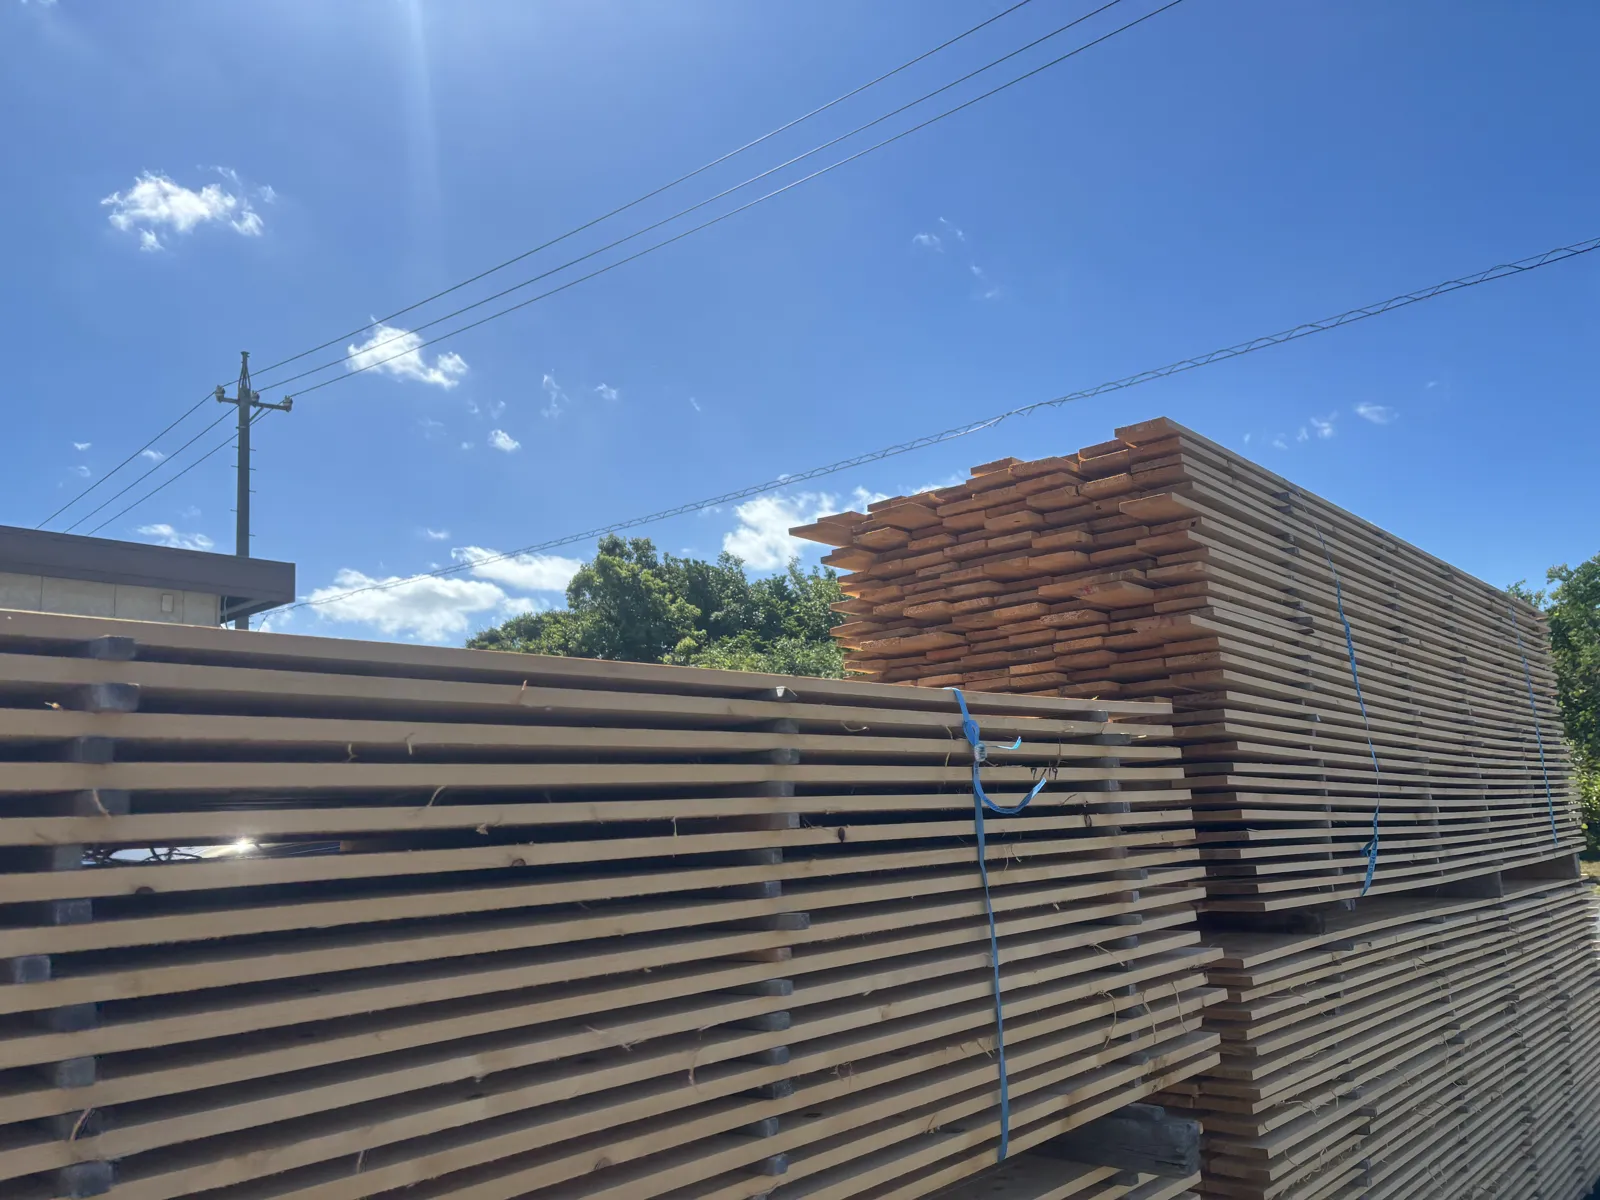
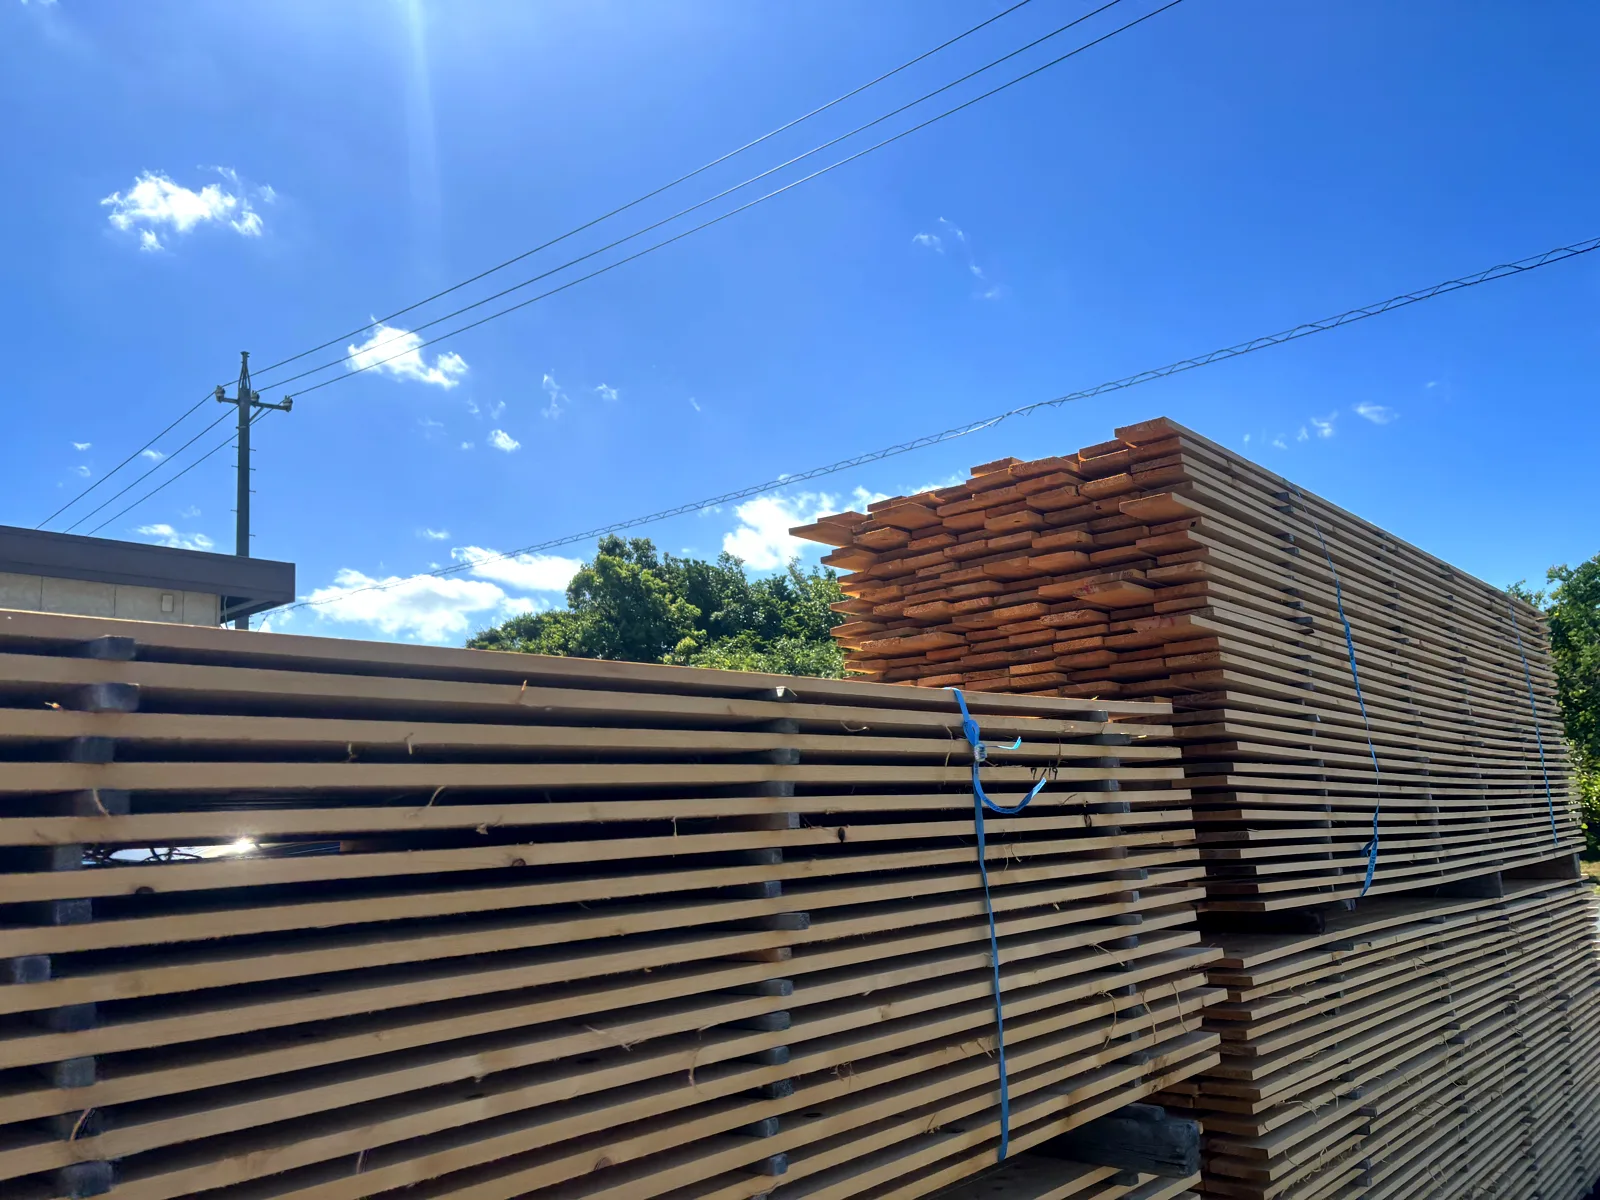
LP: 断面キャプション上部配置・三拍子セクション・色彩調整・CTA刷新
- 断面: キャプションを写真上部の重なり位置へ（板と被らない）＋中央寄せがアニメのtransformで崩れるバグ修正
- 会社セクション→「数字にできる実績と、数字にできない心と。」に刷新
  実績数字(創業1968/★4.97レビュー600件/年間2万束/国産100%)＋三拍子(技=親子三代/新=2026最新モルダー+AI活用/心=顔を思い浮かべて作る)
- 工程04モルダー: 2026年最新機への入替を差別化として明記
- 使用中8枚をHEIC原本から再現像(ホワイトバランス/コントラスト/彩度の統一グレーディング)
- CTA: サンプル請求カード追加で3分岐に・電話行は削除

diff --git a/lp/index.html b/lp/index.html
@@ -75,11 +75,11 @@ img{max-width:100%;display:block}
 
 /* ---------- 断面（フルブリード） ---------- */
 .danmen{position:relative;padding:0}
-.danmen img{width:100%;height:clamp(380px,62vh,600px);object-fit:cover}
+.danmen img{width:100%;height:clamp(420px,66vh,640px);object-fit:cover}
 .danmen .cap{
-  position:absolute;left:50%;bottom:clamp(28px,6vh,60px);transform:translateX(-50%);
-  background:rgba(250,248,244,.93);padding:26px clamp(24px,5vw,48px);max-width:640px;width:calc(100% - 48px);
-  text-align:center;box-shadow:0 12px 40px rgba(0,0,0,.22);
+  position:absolute;top:clamp(26px,6vh,58px);left:24px;right:24px;margin:0 auto;max-width:620px;
+  background:rgba(250,248,244,.92);padding:24px clamp(22px,4vw,44px) 22px;
+  text-align:center;box-shadow:0 12px 40px rgba(0,0,0,.18);
 }
 .danmen .cap h3{font-size:clamp(17px,2.4vw,22px);font-weight:600;letter-spacing:.14em;margin-bottom:10px}
 .danmen .cap p{font-size:13.8px;color:var(--ink-soft);letter-spacing:.06em;line-height:2}
@@ -106,8 +106,21 @@ img{max-width:100%;display:block}
 .company .facts{display:flex;justify-content:center;gap:clamp(30px,7vw,90px);margin-top:56px;flex-wrap:wrap}
 .company .fact .v{font-size:clamp(30px,4.6vw,44px);font-weight:600;color:var(--accent-deep);letter-spacing:.04em}
 .company .fact .v small{font-size:.45em;margin-left:2px}
+.company .fact .v .star{color:#c9a24b;font-size:.55em;vertical-align:.25em;margin-right:6px;letter-spacing:.06em}
 .company .fact .k{margin-top:8px;font-size:12.5px;color:var(--ink-faint);letter-spacing:.22em}
 .company .msg{max-width:680px;margin:64px auto 0;font-size:15px;color:var(--ink-soft);letter-spacing:.08em;line-height:2.5;text-align:left}
+
+/* ---------- 三拍子 ---------- */
+.pillars{display:grid;grid-template-columns:repeat(3,1fr);gap:20px;max-width:940px;margin:72px auto 0}
+.pillar{background:#fff;border:1px solid var(--line);padding:44px 30px 40px;text-align:center}
+.pillar .kanji{
+  display:inline-block;width:72px;height:72px;line-height:72px;border-radius:50%;
+  border:1px solid var(--accent);color:var(--accent-deep);
+  font-size:30px;font-weight:600;margin-bottom:22px;
+}
+.pillar h3{font-size:16.5px;font-weight:600;letter-spacing:.14em;margin-bottom:16px;line-height:1.8}
+.pillar p{font-size:13.6px;color:var(--ink-soft);letter-spacing:.05em;line-height:2.15;text-align:left}
+@media(max-width:860px){.pillars{grid-template-columns:1fr}}
 
 /* ---------- CTA ---------- */
 .cta{background:#241d16;color:#f5efe6;padding:100px 0 90px;text-align:center}
@@ -224,8 +237,8 @@ footer a{color:rgba(255,255,255,.8)}
       <div class="txt">
         <span class="stage sans">MOLDING</span>
         <h3>0.1ミリを合わせる機械加工。</h3>
-        <p>四面を一度に削り出すモルダーで、厚みと幅を整え、実（さね）を刻みます。刃物の状態と送りの調整で、仕上がりは大きく変わります。</p>
-        <p>刃物の管理は当社が最も神経を使う仕事のひとつ。切れる刃で削った面は、塗装がなくても光ります。</p>
+        <p>四面を一度に削り出すモルダーで、厚みと幅を整え、実（さね）を刻みます。当社はこの心臓部を、2026年に最新機へ入れ替えました。</p>
+        <p>機械が古いと送りにムラが出て、寸法の狂いや面の波打ちの原因になります。最新のモルダーと、研ぎ澄ました刃物。この組み合わせが、塗装がなくても光る面を作ります。</p>
       </div>
     </div>
 
@@ -328,15 +341,35 @@ footer a{color:rgba(255,255,255,.8)}
   <div class="wrap">
     <div class="sec-head">
       <span class="en sans">ABOUT US</span>
-      <h2>桧の専門店であること。</h2>
+      <h2>数字にできる実績と、<br>数字にできない心と。</h2>
     </div>
     <div class="facts">
       <div class="fact"><div class="v">1968<small>年</small></div><div class="k sans">創業（昭和43年）</div></div>
-      <div class="fact"><div class="v">桧<small>専門</small></div><div class="k sans">扱う木を絞る</div></div>
-      <div class="fact"><div class="v">一貫<small></small></div><div class="k sans">乾燥から出荷まで自社</div></div>
+      <div class="fact"><div class="v"><span class="star">★</span>4.97</div><div class="k sans">レビュー600件以上</div></div>
+      <div class="fact"><div class="v">20,000<small>束</small></div><div class="k sans">年間販売実績</div></div>
+      <div class="fact"><div class="v">100<small>%</small></div><div class="k sans">国産無垢桧</div></div>
     </div>
+
+    <div class="pillars">
+      <div class="pillar">
+        <span class="kanji">技</span>
+        <h3>親子三代、受け継いできた技術。</h3>
+        <p>昭和43年の創業から、親から子へ、そのまた子へ。乾かし方、削り方、節の見極め ── 桧一筋の技術を、三代かけて磨いてきました。</p>
+      </div>
+      <div class="pillar">
+        <span class="kanji">新</span>
+        <h3>新しくできることは、新しく。</h3>
+        <p>加工の心臓部・モルダーは2026年に最新機へ更新。受注や在庫管理は最新のAIで自動化。人の手と目を、事務ではなく木に使うためです。</p>
+      </div>
+      <div class="pillar">
+        <span class="kanji">心</span>
+        <h3>この床の先の、顔を思う。</h3>
+        <p>この一枚の上を、素足の子どもが走るかもしれない。お客様の顔を思い浮かべながら仕上げる ── 最後はそこに尽きます。</p>
+      </div>
+    </div>
+
     <p class="msg">
-      いろいろな木を少しずつではなく、桧だけを五十八年。扱う木を一つに絞ってきたから、乾かし方も、削り方も、節の見極めも、桧のことなら体で覚えています。それが林材木店の商いです。
+      古い技術と、新しい道具と、変わらない心。三つ揃って、林材木店の桧フローリングです。
     </p>
   </div>
 </section>
@@ -346,11 +379,16 @@ footer a{color:rgba(255,255,255,.8)}
   <div class="wrap">
     <h2>この床は、市場でお求めいただけます。</h2>
     <p class="lead sans">弊社の桧フローリングは、全国の木材市場・お取扱店を通じて流通しています。</p>
-    <div class="paths two sans">
+    <div class="paths sans">
       <a class="path" href="../markets.html">
         <span class="who">ご購入をお考えの方</span>
         <span class="act">お近くの市場・取扱店へ</span>
         <span class="desc">お取引のある木材市場・材木店で「林材木店の桧」とお申し付けください。取扱店のご案内もいたします。</span>
+      </a>
+      <a class="path" href="../contact.html">
+        <span class="who">まず実物を見たい方</span>
+        <span class="act">サンプルを手に取る</span>
+        <span class="desc">等級の違いも、超仕上げの艶も、手に取るのがいちばん早い。実物サンプルをお送りします。</span>
       </a>
       <a class="path" href="../contact.html">
         <span class="who">商品について気になることが</span>
@@ -358,7 +396,7 @@ footer a{color:rgba(255,255,255,.8)}
         <span class="desc">等級の選び方、寸法、施工のこと。商品に関するご質問は、作った私たちが直接お答えします。</span>
       </a>
     </div>
-    <p class="tel sans">お電話でも承ります　<a href="tel:0538582395">0538-58-2395</a><br>株式会社林材木店（静岡県磐田市）</p>
+    <p class="tel sans">株式会社林材木店（静岡県磐田市）</p>
   </div>
 </section>
 
@@ -371,12 +409,13 @@ footer a{color:rgba(255,255,255,.8)}
   document.documentElement.classList.add('js');
 
   // ふわっと表示の対象を付与
-  document.querySelectorAll('.step .ph, .danmen .cap, .living-grid figure, .company .fact, .company .msg, .path').forEach(function(el){ el.classList.add('rv-ph'); });
+  document.querySelectorAll('.step .ph, .danmen .cap, .living-grid figure, .company .fact, .company .msg, .pillar, .path').forEach(function(el){ el.classList.add('rv-ph'); });
   document.querySelectorAll('.step .txt, .sec-head, .intro p, .grade, .cta h2, .cta .lead, .cta .tel').forEach(function(el){ el.classList.add('rv'); });
   // 横並びカードは順にずらす
   document.querySelectorAll('.grades .grade').forEach(function(el,i){ el.classList.add('rv-d'+(i%4===0?1:i%4)); });
   document.querySelectorAll('.living-grid figure').forEach(function(el,i){ el.classList.add('rv-d'+((i%3)+1)); });
   document.querySelectorAll('.company .fact').forEach(function(el,i){ el.classList.add('rv-d'+((i%3)+1)); });
+  document.querySelectorAll('.pillar').forEach(function(el,i){ el.classList.add('rv-d'+((i%3)+1)); });
   document.querySelectorAll('.paths .path').forEach(function(el,i){ el.classList.add('rv-d'+((i%3)+1)); });
 
   var io = new IntersectionObserver(function(entries){
